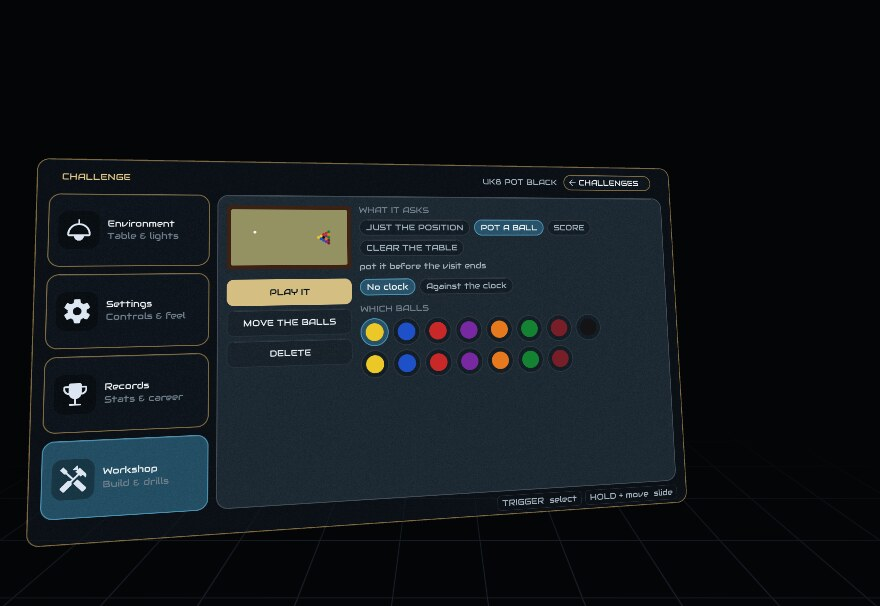
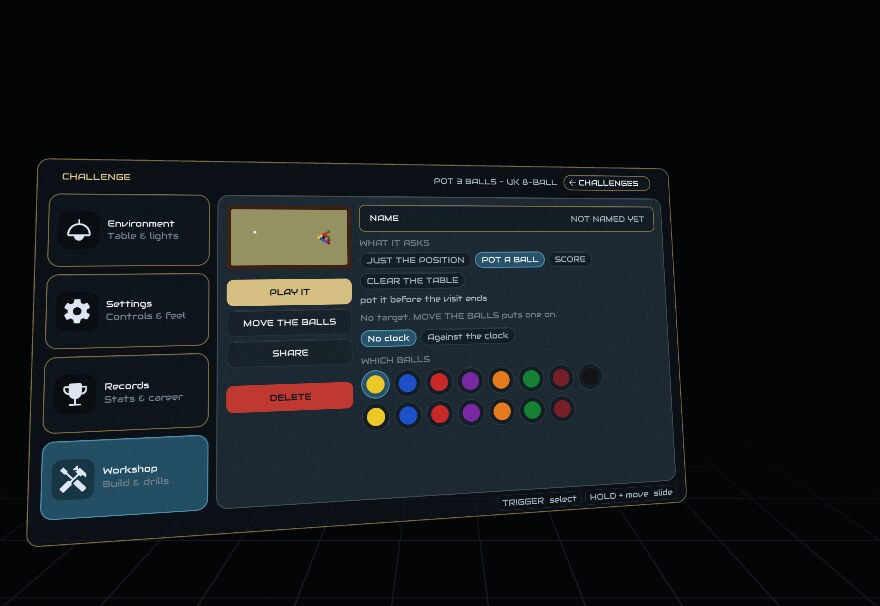
CueVR guide for 6.0: sharing and the gallery (a new section: codes for cues, ball sets, challenges and styles, the gallery's tabs, likes and order, PUT IN GALLERY, no adding during a game), table styles, challenges rewritten (the page's rows, naming, MAKE ONE from the table as it is, FROM A CODE, 32

Changed region(s): [[0.2455, 0.297, 0.7364, 0.7129], [0.3068, 0.5644, 0.3682, 0.5941]]

diff --git a/docs/cuevr-guide.html b/docs/cuevr-guide.html
@@ -193,6 +193,7 @@
       <span class="badge">PRO / TOURNAMENT / CLUB</span>
       <span class="badge">BUILD YOUR OWN TABLE</span>
       <span class="badge">PLAY A FRIEND</span>
+      <span class="badge">SHARE AND THE GALLERY</span>
     </div>
   </div></div>
 </header>
@@ -220,6 +221,7 @@
   <a href="#pockets">Pockets</a>
   <a href="#workshop">Build a table</a>
   <a href="#cues">Cues</a>
+  <a href="#gallery">Sharing and the gallery</a>
   <a href="#chalk">Chalk</a>
   <a href="#physics">Physics</a>
   </span>
@@ -328,6 +330,14 @@
     <tr><td><b>Stop the colours going back on</b></td><td>The <b>Auto respot</b> chip on the same
       pause menu. On, they come back until the reds are gone and then stop, so you can play a
       clearance.</td></tr>
+    <tr><td><b>Things other players have made</b></td><td><b>GALLERY</b>, beside the title in the
+      Workshop and on the cue, ball, challenge, cloth and timber pickers. See
+      <a href="#gallery">Sharing and the gallery</a>.</td></tr>
+    <tr><td><b>Keep the look of my table</b></td><td><b>STYLES</b>, beside the title on the cloth
+      and timber screens. See <a href="#styles">Table styles</a>.</td></tr>
+    <tr><td><b>Give a friend my cue, ball set, challenge or table style</b></td><td><b>SHARE</b>
+      on its screen gives a six-letter code; they type it into <b>ENTER A CODE</b> (<b>FROM A
+      CODE</b> for a challenge).</td></tr>
     <tr><td><b>A target to play position to</b></td><td><b>Target on</b> on the same pause menu, in
       practice or a challenge; <b>Move the target</b> puts it where you want it. See
       <a href="#target">The target</a>.</td></tr>
@@ -538,6 +548,18 @@
         instead.</td></tr>
   </table>
 
+  <h3>When your hands go below the table</h3>
+  <p>Two rows on <b>Settings &rarr; Controls</b>, for controllers. Neither changes your aim or the
+  stroke.</p>
+  <table>
+    <tr><th>Row</th><th>What it does</th></tr>
+    <tr><td><b>CUE RESTS ON THE TABLE</b></td><td>The cue lies on whatever is under it &mdash; the
+      rail, the cushion or the cloth &mdash; instead of sinking into it, however low your hands
+      go. Without it a cue pushed into the table buzzes and will not play the stroke.</td></tr>
+    <tr><td><b>BRIDGE ON THE TABLE</b></td><td>Your bridge stays where your hand puts it on the
+      table, and follows you as you move.</td></tr>
+  </table>
+
   <div class="note">
     <b>Why the side triggers do not move your aim.</b> Sliding your hand along a real cue does not
     move the cue. Holding either side trigger tells the game you are adjusting your hands rather
@@ -576,6 +598,17 @@
     ball. How fast you move it is how hard the ball is hit: a slow push rolls it gently, a break
     shot needs a real swing. Release the trigger afterwards.</li>
   </ol>
+
+  <h3>Ball in hand</h3>
+  <p>When the cue ball is in your hand, it is held just in front of your butt hand's controller
+  (with a real cue, in front of your free hand), and it goes wherever that hand goes. Carry it
+  to where you want it and pull that hand's <b>trigger</b> to put it down. It drops straight onto
+  the cloth and is moved into the area the rules allow, clear of any ball already there, so you
+  cannot put it somewhere illegal.</p>
+  <p><b>Putting it down does not start your stroke.</b> With controllers the same trigger holds
+  the cue, so let go of it after placing, then press it again when you are ready to play.</p>
+  <p>Changed your mind? <b>PICK UP BALL</b> on the pause menu puts it back in your hand, until the
+  stroke is played.</p>
 
   <h3>Shots you cannot reach</h3>
   <p>Bring the shot to you. The sticks move the table at any time, in the middle of a frame
@@ -669,7 +702,9 @@
 
   <h3>Open the set-up screen</h3>
   <p>Go to <b>Settings &rarr; Cue feel</b> and press <b>CALIBRATE A REAL CUE</b>, at the bottom of
-  the list. The table disappears while you are on this screen, so nothing is in the way.</p>
+  the list. The table disappears while you are on this screen, so nothing is in the way, and
+  you see your own room even if you play in the dark room or the arena, so you can see the cue
+  you are lining up. Your surroundings come back when you leave the screen.</p>
 
   <figure>
     <img src="img/cuevr/rca-setup.jpg" alt="The cue set-up screen with a grey cue floating in front of the player">
@@ -1300,7 +1335,9 @@
       <p>The RULES row carries four ways to play it. <b>WPA 8-BALL</b> is the code above and calls
       nothing. <b>CALL THE BLACK</b> asks for the last one only, which is how most people play it.
       <b>CALL SHOT (WPA)</b> is the rule book to the letter: ball and pocket declared on every
-      stroke. <b>KILLER</b> is the pub elimination game on the same table.</p>
+      stroke. <b>KILLER</b> is the pub elimination game on the same table.
+      <b>ULTIMATE POOL USA</b>, at the end of the row, is Ultimate Pool's rules &mdash; its
+      break requirement and its golden break &mdash; played on this American table.</p>
     </div>
     <figure><img src="img/cuevr/game-us8.png" alt="A US 8-ball table"></figure>
   </div>
@@ -1449,6 +1486,14 @@
       a pocket rather than for balls it can cut in, and it will not give up such a line to buy
       itself a better angle on the next one — which is the trade every other game on the row is
       built around, and the wrong trade in this one.</p>
+      <p><b>FREE PYRAMID</b>, on the card's RULES row beside CLASSIC, is the other pyramid game.
+      The break is played from the house as usual; after that <b>any ball can be your cue ball</b> &mdash;
+      whichever one your cue is lined up on is the one you strike. Every ball you pot counts,
+      including the one you struck once it has hit another ball, and first to eight wins. A foul
+      puts back whatever it potted, and your opponent then takes <b>any ball they like</b> off the
+      table and scores it, naming it the way you name a ball (your CALL setting in the
+      controls), and plays on from where the balls lie. A ball driven off the table goes back on
+      the spot, and it is only a foul if it was the ball you struck.</p>
     </div>
     <figure><img src="img/cuevr/game-pyramid12.png" alt="A 12ft Russian pyramid table"></figure>
   </div>
@@ -1503,6 +1548,12 @@
       out of baulk, and no part of a ball that is in baulk may be struck directly. Breaking that is
       a foul. If they play out properly and simply fail to hit anything, that is a <b>miss</b> —
       still two points, but not a foul.</p>
+      <p><b>From in hand, always.</b> The same rule applies every time you play from the D, not
+      only on the break: after an in-off, after your opponent pots your ball, after a foul. To
+      reach a ball in baulk you must come off a cushion <b>out of baulk</b> first; coming back off
+      the baulk cushion does not count. The computer plays by it too.</p>
+      <p><b>Potting your opponent's ball</b> scores two and you play on from where your own ball
+      lies.</p>
       <p>At every change of turn the two whites swap over, so the ball in front of you is always
       your own.</p>
     </div>
@@ -1824,15 +1875,21 @@
       <div class="spec">9FT TABLE · 15 BALLS · US 8-BALL'S RULES ROW</div>
       <p>Three more games on the same bed, each built on refusing you one ordinary thing.</p>
       <table>
-        <tr><td><b>BANK POOL</b></td><td>Every scoring ball must come off a <b>cushion</b> first.
-          A ball potted without a bank scores nothing and goes back on the table — but that is not
-          a foul, so if you banked one on the same stroke you keep the table. A bank is a
-          <em>rebound</em>, not a rub: a ball run down a rail that merely brushes it on the way
-          into the corner has not banked. First to 8, and a foul costs a ball as it does at one
+        <tr><td><b>BANK POOL</b></td><td><b>Call the ball and the pocket, and bank it in.</b> Only
+          the called ball, banked into the called pocket, scores &mdash; one ball a stroke.
+          Anything else that drops goes back on the table, and that is not a foul, so if your
+          called ball went in you keep the table. The break is not called, and what it banks in
+          counts.
+          <br><br><b>What a bank is.</b> The ball must come off a rail that does <em>not</em> run
+          into the pocket it drops in. A rail is the cushion between two pockets, jaws included,
+          so off the far side of the table is a bank, and so is off the jaw of a <em>different</em>
+          pocket. A ball that runs along one of the pocket's own rails, or clips that pocket's jaw
+          on the way in, has not been banked. First to 8, and a foul costs a ball as it does at one
           pocket.</td></tr>
         <tr><td><b>HONOLULU</b></td><td>A <b>straight-in pot scores nothing</b>. The ball has to
           arrive the hard way — off a bank, off a kick (the cue ball finding a cushion before it
-          reaches a ball), or through another ball as a combination or carom. The one shot every
+          reaches a ball), or through another ball as a combination or carom. A bank is judged as
+          it is at bank pool: off a rail that does not run into the pocket. The one shot every
           other game on this table is built around is the only one this game does not have. A
           straight pot is not a foul: it goes back on the table, and if you scored one properly on
           the same stroke you keep the table. First to 8.</td></tr>
@@ -2033,11 +2090,11 @@
   <span class="cap-t">HEX 76MM</span>, <span class="cap-t">ROUND 112MM</span>. There are twelve
   slots. <b>FORGET IT</b> throws one away.</p>
   <div class="note warn">
-    <b>Records only count on the table the game ships with.</b> A best break made on a bed with
-    pockets two balls wide is not the same achievement as one made on the standard table. Any of the
-    three specs counts, since a spec is the ready-made rectangle cut to a published size; a different
-    bed shape or a table you built sets nothing and beats nothing. The records page tells you which
-    table it is not counting.
+    <b>Records count on the tables the game ships.</b> PRO, TOURNAMENT and CLUB, at every size the
+    game offers, the 6 ft and 7 ft included. A table you built, or one of the shapes that is not a
+    rectangle, sets nothing and beats nothing: a best break on pockets two balls wide is not the
+    same achievement. Online, a record counts on your opponent's table when it is one of the
+    shipped ones. The records page tells you when a table is not counting.
   </div>
 </section>
 
@@ -2496,31 +2553,71 @@
     <figcaption>The target, chalked on the cloth between the blue and the pink.</figcaption>
   </figure>
 
-  <p><b>Challenges</b> set you a goal on a fixed layout — clear the table, or reach a score. Each
-  one is judged over a single visit, so a miss ends the attempt and you start again.</p>
+  <p><b>Challenges</b> set you a goal on a fixed layout: a position to play from, a ball to pot, a
+  score to reach or a table to clear. Each one is judged over a single visit, so a miss ends the
+  attempt and you start again.</p>
 
-  <p>They are laid out as a gallery of cards. Each card carries a picture of the layout seen from
-  above, so you can tell at a glance what the challenge is, with its name, its goal and your best
-  result on it underneath. Point at one and pull the trigger to start it.</p>
+  <p><b>VS &rarr; Challenge</b> on the main menu opens them as a page of cards; in free practice
+  they are a chip on the pause menu. Each card is a picture of the layout with its name, what it asks and your best
+  result underneath. Point at one and pull the trigger to open it. The first two cards are always
+  there: <b>THE TIMED SIX</b>, six reds against the clock, and <b>MAKE ONE</b>. You can keep
+  thirty-two challenges of your own.</p>
 
-  <h3>Making your own</h3>
-  <p><b>Workshop &rarr; Challenge</b> on the main menu. Set the balls out, say what the challenge
-  asks for, and it joins the gallery with the rest.</p>
+  <h3>A challenge's page</h3>
+  <figure>
+    <img src="img/cuevr/chal_set.jpg" alt="A challenge's page">
+    <figcaption>A challenge's page. <b>PLAY IT</b> starts it, <b>MOVE THE BALLS</b> opens the
+    layout, <b>SHARE</b> gives its code. On the right, what it asks and which balls count.</figcaption>
+  </figure>
+  <table>
+    <tr><th>Row</th><th>What it does</th></tr>
+    <tr><td><b>NAME</b></td><td>Opens a keyboard. Type a name and press <b>KEEP IT</b>;
+      <b>SUGGEST</b> starts you from a description of what it asks. A challenge with no name is
+      described that way on its card, such as <span class="cap-t">POT THE 1 TO THE 4 - US
+      8-BALL</span>.</td></tr>
+    <tr><td><b>WHAT IT ASKS</b></td><td><b>JUST THE POSITION</b> (play on from here, nothing is
+      judged), <b>POT A BALL</b>, <b>SCORE</b> or <b>CLEAR THE TABLE</b>.</td></tr>
+    <tr><td><b>No clock</b> / <b>Against the clock</b></td><td>Whether it is timed.</td></tr>
+    <tr><td>The target</td><td>If the challenge has <a href="#target">a target</a>, it can also
+      ask the cue ball to finish inside the 50, the 20 or the 10.</td></tr>
+    <tr><td><b>WHICH BALLS</b></td><td>For POT A BALL, the balls to pot. Pick more than one and
+      all of them have to go down in the visit.</td></tr>
+    <tr><td><b>SHARE</b></td><td>Gives a six-letter code for it. See
+      <a href="#gallery">Sharing and the gallery</a>.</td></tr>
+    <tr><td><b>DELETE</b></td><td>Throws it away. Press it twice.</td></tr>
+  </table>
 
   <figure>
-    <img src="img/cuevr/chal_set.jpg" alt="The challenge setup screen">
-    <figcaption>Choose what it asks — just the position, pot a ball, or reach a score — and whether
-    it is against the clock. <b>MOVE THE BALLS</b> goes back to the layout; <b>PLAY IT</b> starts
-    it.</figcaption>
+    <img src="img/cuevr/chal-name.jpg" alt="Naming a challenge">
+    <figcaption>Naming a challenge. <b>SUGGEST</b> fills the box with what it asks, so a name is
+    an edit rather than typing from nothing.</figcaption>
   </figure>
+
+  <h3>Making your own</h3>
+  <p><b>MAKE ONE</b>, or <b>Workshop &rarr; Challenge</b>, opens the layout editor with the balls
+  <b>as they are on the table</b>. So the
+  quickest way to make a challenge is to set a position up in practice, or stop at one you keep
+  getting wrong, and press MAKE ONE. A table with no balls on it starts from a full rack.</p>
 
   <figure>
     <img src="img/cuevr/layout-editor.jpg" alt="The layout editor">
     <figcaption>Setting the balls out. Pull the trigger near a ball to pick it up and again to put
-    it down; the panel holds the rest — save the position, take a ball off, put one back, start from
-    a full rack, take them all off, or throw the changes away. Use it to practise a shot you keep
-    getting wrong.</figcaption>
+    it down; the panel holds the rest — save the position, take a ball off, put one back,
+    <b>START FROM A FULL RACK</b>, take them all off, or throw the changes away.</figcaption>
   </figure>
+
+  <h3>From a code</h3>
+  <p><b>FROM A CODE</b>, on the MAKE ONE card, takes a challenge somebody has shared: type the six
+  letters and press <b>GET THE CHALLENGE</b>. It joins your cards and opens on its page. Or pick
+  one in the <a href="#gallery">gallery</a>, where players put the challenges they want others to
+  try.</p>
+
+  <div class="note">
+    <b>Challenges wait until your game is over.</b> A challenge sets out its own table, so PLAY IT,
+    MOVE THE BALLS, MAKE ONE and the timed six are shut while you are in a game, and the page says
+    so. Adding one from the gallery waits too. Getting one from a code does not change the table,
+    so you can do that any time.
+  </div>
 </section>
 
 <section id="replays">
@@ -2535,6 +2632,19 @@
   <b>KEEP THIS SHOT</b> on the panel to save it — the row answers <b>SAVED 3/32</b>, and it will
   not save the same shot twice. Keeping a shot leaves the replay open, so you can watch it again
   after you have kept it.</p>
+
+  <h3>The stroke and the delivery</h3>
+  <p>A replay panel reads the stroke back to you: how hard, how much spin, and where the tip met
+  the ball, with the cue ball drawn face on as you looked at it and, from above, how far it was
+  pushed off your line by the side you used.</p>
+  <p>With a real cue, <b>SHOW THE DELIVERY</b> swaps that for <b>THE DELIVERY</b>: how straight your
+  cue went through the ball, from the back of your last backswing to the end of the
+  follow-through, measured off the line it was on at the strike. <b>TOP DOWN</b> shows it
+  sideways, <b>SIDE ON</b> up and down, magnified to 20 mm either side of the line. It is drawn
+  from the tracking at 500 samples a second, so a hard stroke is a smooth line, and practice
+  swings before the real one are left out. <b>SHOW THE STROKE</b> goes back.</p>
+  <p><b>PREVIOUS SHOT</b> and <b>NEXT SHOT</b> step through the frame, and <b>PLAY THE BREAK</b>
+  plays your whole break back, one stroke after another.</p>
 
   <p>The <b>Replay gallery</b> chip on the pause menu and <b>Records &rarr; Replays</b> on the
   main menu browse what you have kept, twelve to a page. <b>DELETE THE ONE HIGHLIGHTED</b> is a row on the panel, and it
@@ -2575,6 +2685,12 @@
   <p>You both see the same table, the same balls and the same score. You will see your opponent's
   cue move as they play, and it is the cue they chose. The referee calls fouls at both ends, and the
   player who was fouled against makes the decision.</p>
+
+  <div class="note">
+    <b>The game is the host's.</b> Whoever joins plays the host's game and rules, whatever they
+    had chosen themselves, and everything names it that way: the rules pages, the end of the
+    frame and the records it is kept under.
+  </div>
 
   <div class="note">
     <b>The balls are the host's.</b> Whoever joins takes the host's set for the match. That is not
@@ -2907,6 +3023,30 @@
     <figure><img src="img/cuevr/cloth19.jpg" alt="Tournament blue cloth"><figcaption><span class="cap-t">TOURNAMENT BLUE</span></figcaption></figure>
   </div>
   <p>The rest: <span class="tag">SILVER</span><span class="tag">TAUPE</span><span class="tag">GOLD</span><span class="tag">NUTMEG</span><span class="tag">RANGER GREEN</span><span class="tag">OLIVE</span><span class="tag">SAGE</span><span class="tag">POWDER BLUE</span><span class="tag">NAVY</span><span class="tag">LIGHT PURPLE</span><span class="tag">RED</span><span class="tag">ORANGE</span></p>
+
+  <h3 id="styles">Table styles</h3>
+  <p>A <b>table style</b> is the whole look of your table kept under one name: the cloth (a
+  colour you mixed included), the timber and its finish, the body, and the pocket leather or
+  corner metal. <b>STYLES</b>, beside the title on the cloth and timber screens, opens them.</p>
+  <figure>
+    <img src="img/cuevr/styles-panel.jpg" alt="The table styles panel with two styles">
+    <figcaption>Two styles. Each card is a photograph of your table wearing it: a corner pocket
+    up close, and the whole table in the corner of the picture.</figcaption>
+  </figure>
+  <table>
+    <tr><th>Button</th><th>What it does</th></tr>
+    <tr><td><b>SAVE THIS STYLE</b></td><td>Keeps the table as it looks now. Type a name for
+      it.</td></tr>
+    <tr><td>A card</td><td>Puts that style on the table.</td></tr>
+    <tr><td><b>SHARE</b></td><td>Gives a six-letter code for the style you picked; once it has,
+      the button says <b>PUT IN GALLERY</b>.</td></tr>
+    <tr><td><b>ENTER A CODE</b></td><td>Puts somebody else's style on your table and keeps it
+      with yours.</td></tr>
+    <tr><td><b>DELETE</b></td><td>Throws the picked style away.</td></tr>
+    <tr><td><b>DONE</b></td><td>Back to the cloth or timber screen.</td></tr>
+  </table>
+  <p>A style only changes how the table looks. The table you play on, its size and its pockets,
+  stay as they are.</p>
 
   <h3>Lighting</h3>
   <div class="grid g2">
@@ -3482,6 +3622,67 @@
   </figure>
 </section>
 
+<section id="gallery">
+  <h2>Sharing and the gallery</h2>
+  <p class="lede">Four things you make can be given to anyone as a six-letter code, and put in a
+  gallery for everybody to find.</p>
+
+  <table>
+    <tr><th>What</th><th>Share it from</th><th>Take a code in with</th></tr>
+    <tr><td><b>A cue</b></td><td><b>Workshop &rarr; Cue</b>, <b>SHARE</b></td><td><b>ENTER A
+      CODE</b> in the cue workshop</td></tr>
+    <tr><td><b>A ball set</b></td><td><b>Workshop &rarr; Ball set</b>, <b>SHARE</b></td><td><b>ENTER A
+      CODE</b> in the ball workshop</td></tr>
+    <tr><td><b>A challenge</b></td><td>Its page, <b>SHARE</b></td><td><b>FROM A CODE</b> on the
+      MAKE ONE card</td></tr>
+    <tr><td><b>A table style</b></td><td><b>STYLES</b>, <b>SHARE</b></td><td><b>ENTER A CODE</b> on
+      the same panel</td></tr>
+  </table>
+  <p>A code looks like <span class="cap-t">47Z-BPX</span>. Sharing the same thing twice gives the
+  same code. What you take in is a copy: it joins your own, and nothing you change on it reaches
+  the player who made it.</p>
+
+  <h3>The gallery</h3>
+  <p><b>GALLERY</b>, beside the title in the <b>Workshop</b>, opens it. The same button is on the
+  cue, ball set, challenge, cloth and timber pickers, and opens on the tab for what you were
+  choosing.</p>
+  <figure>
+    <img src="img/cuevr/gallery-cues.jpg" alt="The gallery, on its cues tab">
+    <figcaption>The gallery. Tabs for <b>CUES</b>, <b>BALLS</b>, <b>CHALLENGES</b> and <b>TABLE
+    STYLES</b> along the top, six to a page; the heart on each picture is how many players have
+    liked it.</figcaption>
+  </figure>
+  <ul>
+    <li><b>Pick one</b> to see its name and the date it went in.</li>
+    <li><b>ADD TO MINE</b> keeps it, exactly as typing its code would, and takes you to it.</li>
+    <li><b>LIKE</b> puts your heart on it; press again to take it back. Each headset has one
+      heart for each entry.</li>
+    <li><b>NEWEST</b> and <b>MOST LIKED</b> choose the order.</li>
+    <li>The arrows at either side turn the page. A page appears straight away and its pictures
+      fill in as they arrive.</li>
+  </ul>
+  <div class="grid g3">
+    <figure><img src="img/cuevr/gallery-balls.jpg" alt="The gallery's ball sets">
+      <figcaption>Ball sets.</figcaption></figure>
+    <figure><img src="img/cuevr/gallery-challenges.jpg" alt="The gallery's challenges">
+      <figcaption>Challenges, each a picture of its layout.</figcaption></figure>
+    <figure><img src="img/cuevr/gallery-styles.jpg" alt="The gallery's table styles">
+      <figcaption>Table styles.</figcaption></figure>
+  </div>
+
+  <h3>Putting yours in</h3>
+  <p><b>Nothing goes in the gallery unless you put it there.</b> <b>SHARE</b> gives you a code
+  and nothing more; the code is yours to give to whoever you like. Once it has been shared, the
+  same button says <b>PUT IN GALLERY</b>. Press it and your cue, set, challenge or style appears
+  in the gallery under its name, with its picture.</p>
+
+  <div class="note">
+    <b>During a game you can look and like, but not add.</b> Adding a ball set changes the weight
+    of the balls on the table, and adding a challenge sets out its own table, so <b>ADD TO MINE</b>
+    waits until your game is over.
+  </div>
+</section>
+
 <section id="chalk">
   <h2>Chalk</h2>
   <p class="lede">There is a block of chalk on the rail. You can pick it up, chalk your tip and put
@@ -3494,6 +3695,9 @@
   may pick up if you feel like it. Set it to <b>MANUAL</b> and it becomes part of the game: the tip
   wears a little with every stroke, wears a lot with a hard one, and a wide contact on a bare tip
   will miscue.</p>
+
+  <p><b>CHALK ON THE TABLE</b>, on the same tab, can hide the block altogether while chalking is
+  AUTOMATIC. Set chalking to MANUAL and it comes back.</p>
 
   <h3>Picking it up</h3>
   <p>Your bridge hand has to be free first. Slide it up the shaft and off the tip end with the side
